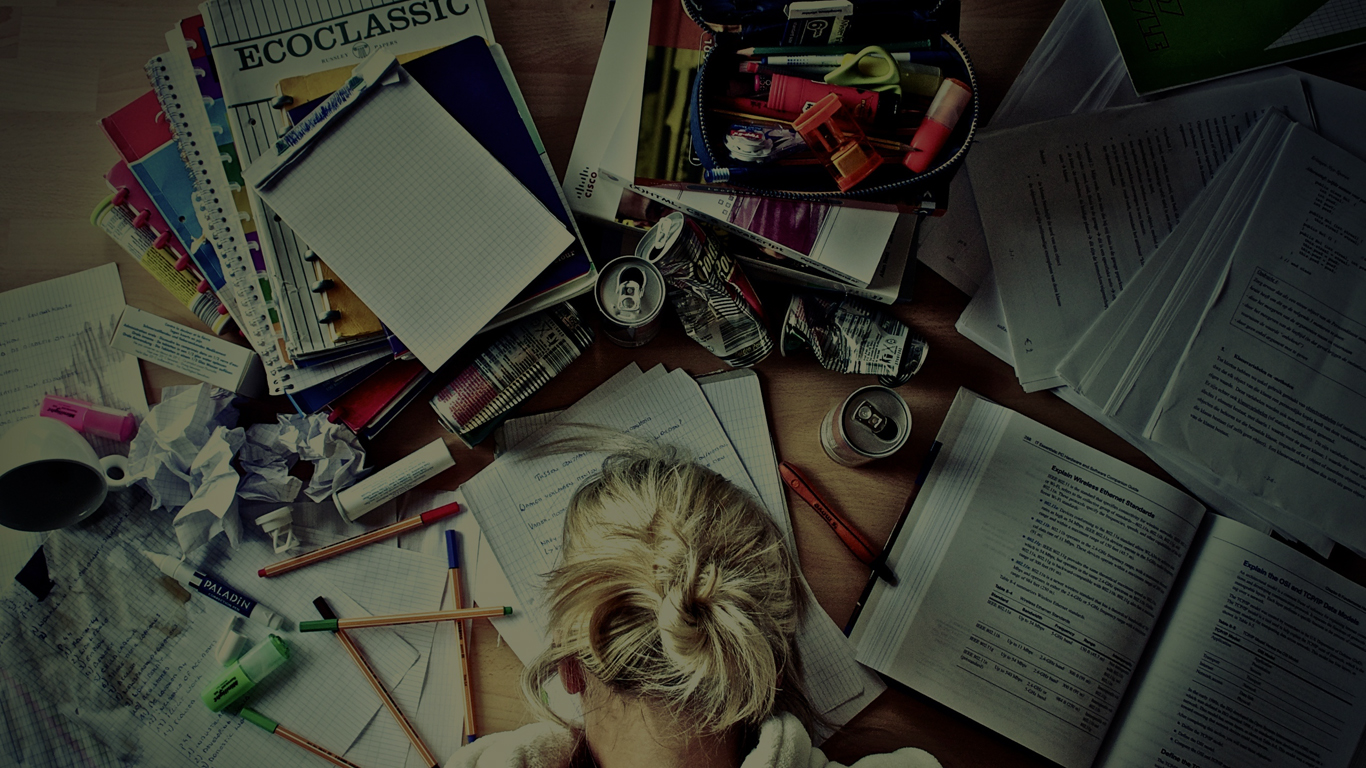
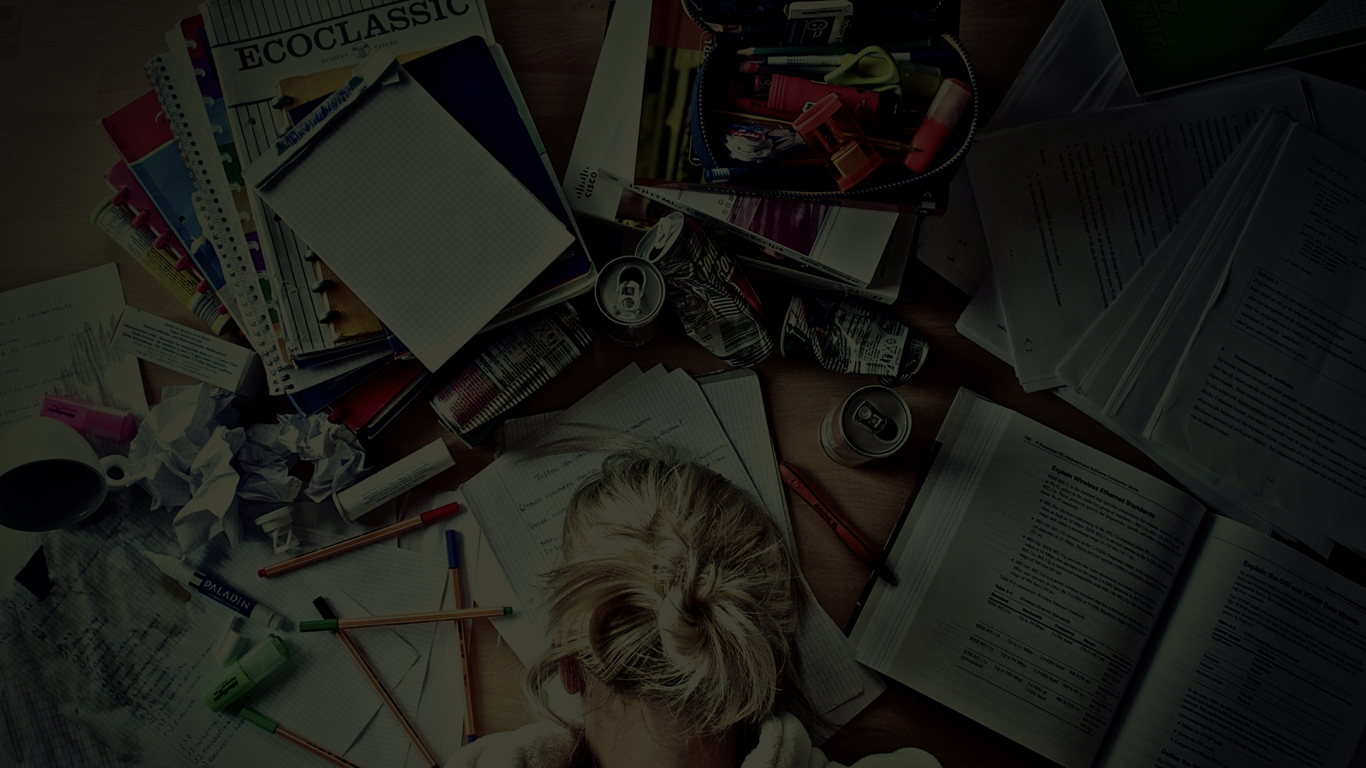
Responsive update

diff --git a/css/main.css b/css/main.css
@@ -124,7 +124,7 @@ body {
   padding: 20px;
   margin: 0 auto;
   width: 80%;
-  background: rgba(0,0,0,0.75);
+  /*background: rgba(0,0,0,0.75);*/
   border-radius: 22px;
 }
 .cover .btn-lg {
@@ -134,16 +134,17 @@ body {
 
 .cover-heading{
 	margin: 15px;
-	font-size: 44px;	
+	font-size: 50px;
+  text-transform: uppercase;
 }
 
 .cover-search{
-	width: 95%;
+	width: 80%;
 	margin: 30px auto;
 }
 
 .cover-search input{
-	width: 90%;
+	width: 75%;
 	height: 56px;
 	font-size: 24px;
 	display: inline-block;
@@ -455,7 +456,7 @@ body {
   text-shadow: none;
   color: #333;
   margin: 0 auto;
-  font-weight: 500;
+  font-weight: 300;
   font-size: 20px;
 }
 
@@ -655,11 +656,57 @@ body {
   }
 }
 
-/* desktop */
-@media (max-width: 1024px){
-	.cover-search input{
-		width: 82%;
-	}
+@media (min-width: 644px){
+  .cover-heading{
+    font-size: 30px;
+  }
+  .cover-search input{
+    font-size: 14px;
+    width: 70%;
+  }
+}
+
+@media (min-width: 736px){
+  .cover.inner{
+    margin-top: 50px;
+  }
+  .cover-search input{
+    height: 55px;
+  }
+  .testimonial-box{
+    margin-bottom: 20px;
+  }
+}
+
+@media (min-width: 858px){
+  .site-wrapper{
+    height: 768px;
+    min-height: 768px;
+  }
+  .cover-heading{
+    font-size: 40px;
+  }
+  .cover-search input{
+    font-size: 20px;
+  }
+  .modal{
+    top: 35% !important;
+  }
+  .cover.inner{
+    margin-top: 0;
+  }
+  .testimonial-box{
+    margin-bottom: 0;
+  }
+}
+
+@media (min-width: 1020px){
+  .cover-heading{
+    font-size: 50px;
+  }
+  .cover-search input{
+    width: 82%;
+  }
   .topic-box{
     margin-top: 20px;
   }
@@ -676,21 +723,87 @@ body {
   }
 }
 
-/* tablet */
+
+@media (min-width: 1281px){
+  .cover-search input{
+    width: 75%;
+    height: 56px;
+  }
+  .topic-box{
+    margin-top: 0px;
+  }
+  .course-box{
+    width: 350px;
+    height: 320px;
+    margin-top: 20px;
+  }
+  .course-title-box{
+    bottom: 120px;
+  }
+  .course-img-layer{
+    height: 200px;
+  }
+}
+
+@media (max-width: 1024px){
+  .cover-search input{
+    width: 82%;
+    height: 56px;
+  }
+  .topic-box{
+    margin-top: 20px;
+  }
+  .course-box{
+    width: 300px;
+    height: 290px;
+    margin-top: 20px;
+  }
+  .course-title-box{
+    bottom: 149px;
+  }
+  .course-img-layer{
+    height: 171px;
+  }
+}
+
 @media (max-width: 768px){
+  .site-wrapper{
+    height: 768px;
+    min-height: 768px;
+  }
+  .cover-heading{
+    font-size: 40px;
+  }
+  .cover-search-input{
+    font-size: 20px;
+  }
   .modal{
     top: 35% !important;
   }
 }
 
+@media (max-width: 736px){
+  .testimonial-box{
+    margin-bottom: 20px;
+  }
+}
+
 /* phone */
 @media (max-width: 480px){
+  .cover-heading{
+    font-size: 30px;
+  }
   .cover{
     margin: 0 auto 20px auto;
   }
-	.cover-search input{
-		width: 70%;
-	}
+  .cover-search input{
+    width: 70%;
+    font-size: 14px;
+    height: 40px;
+  }
+  .cover-search button{
+    padding: 5px 10px;
+  }
   .see-more h3{
     font-size: 18px;
   }

diff --git a/index.html b/index.html
@@ -72,14 +72,15 @@
 						</div>
 					</form>
 				</div>
-				<!-- /Modal load -->
-
+				
+				<!-- Inner cover -->
           		<div class="inner cover">
-	            	<h2 class="cover-heading">Giải pháp học tập online trong tầm tay bạn!</h2>
+	            	<h2 class="cover-heading">Giải pháp học tập online<br/>trong tầm tay bạn!</h2>
 	            	<form class="cover-search">
 				  	<input type="text" class="form-control" placeholder="Bạn đang tìm kiếm những kiến thức gì?">
 				  	<button class="cover-btn btn btn-primary" type="submit"><i class="fa fa-search"></i></button>
 					</form>
+					<!-- feature 
 					<div class="row">
 						<div class="col-sm-6">
 							<ul class="feature">
@@ -95,7 +96,7 @@
 								<li><i class="glyphicon glyphicon-phone"></i> Hỗ trợ trên cả thiết bị di động</li>
 							</ul>
 						</div>
-					</div>
+					</div> -->
 					<div class="row">
 			            <a href="#" class="contributing">
 							Bạn muốn đóng góp khóa học mới ? Tại sao không ?
